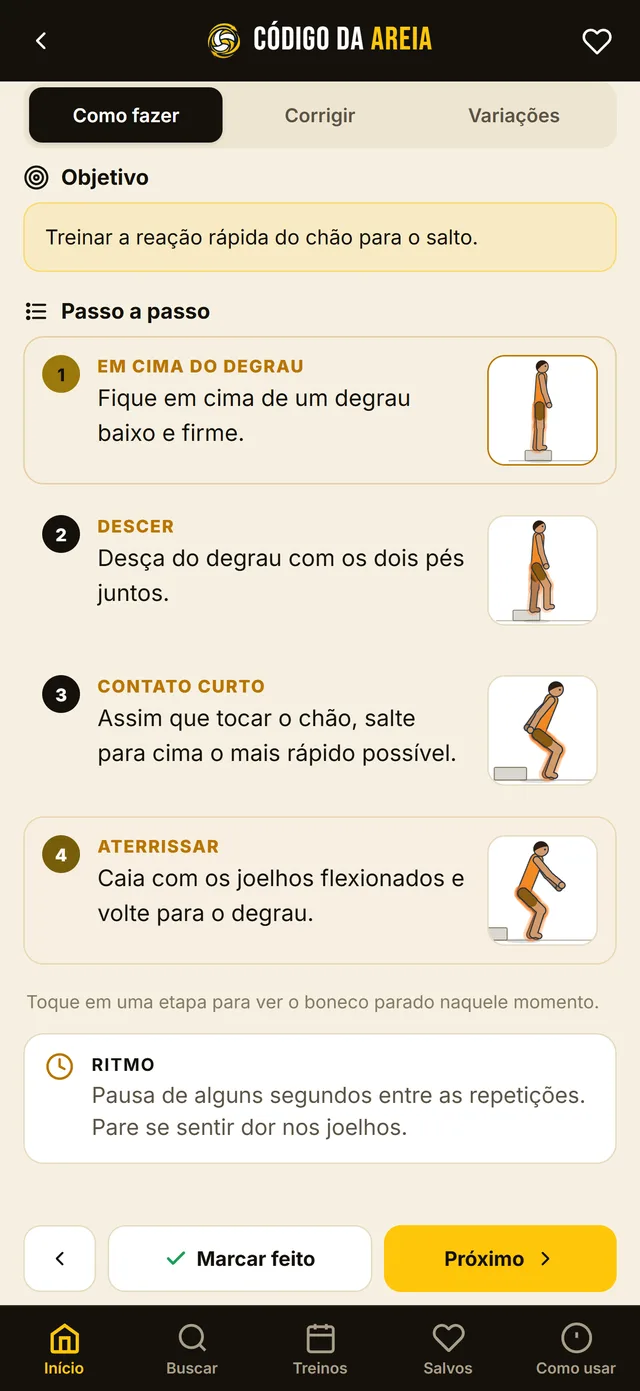
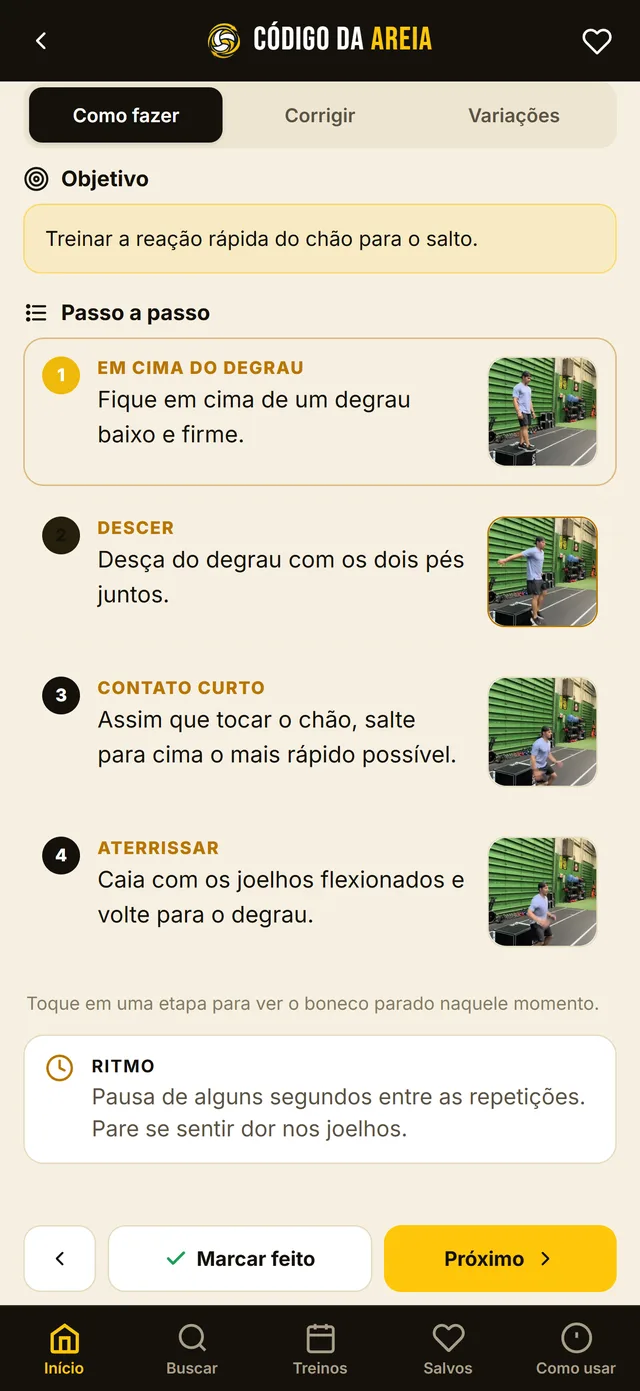
Carrossel do app: passo a passo da queda do degrau com fotos reais
Claude-Session: https://claude.ai/code/session_013vDSHf3z3SrpcJTAuW29vw

diff --git a/src/components/AppPreviewCarousel.tsx b/src/components/AppPreviewCarousel.tsx
@@ -23,7 +23,7 @@ const SLIDES: SlideItem[] = [
   { id: 3, src: tela3, alt: 'Fundamentos do vôlei de quadra: saque, recepção, levantamento, ataque, bloqueio e defesa' },
   { id: 4, src: tela4, alt: 'Exercícios de impulsão filtrados por nível e material, com séries e região que trabalha' },
   { id: 5, src: tela5, alt: 'Exercício Afundo com salto aberto no app, com o vídeo do movimento e a legenda da etapa' },
-  { id: 6, src: tela6, alt: 'Passo a passo do exercício com as etapas ilustradas, o objetivo e o ritmo' },
+  { id: 6, src: tela6, alt: 'Passo a passo da Queda do degrau e salto, com uma foto real de cada etapa, o objetivo e o ritmo' },
   { id: 7, src: tela7, alt: 'Exercício Queda do degrau e salto aberto no app, com o vídeo do movimento e a legenda da etapa' },
   { id: 9, src: tela9, alt: 'Exercício Agachamento com salto aberto no app, com o vídeo do movimento e a legenda da etapa' },
   { id: 8, src: tela8, alt: 'Agachamento búlgaro: regiões que trabalha, objetivo e passo a passo com as etapas ilustradas' },
